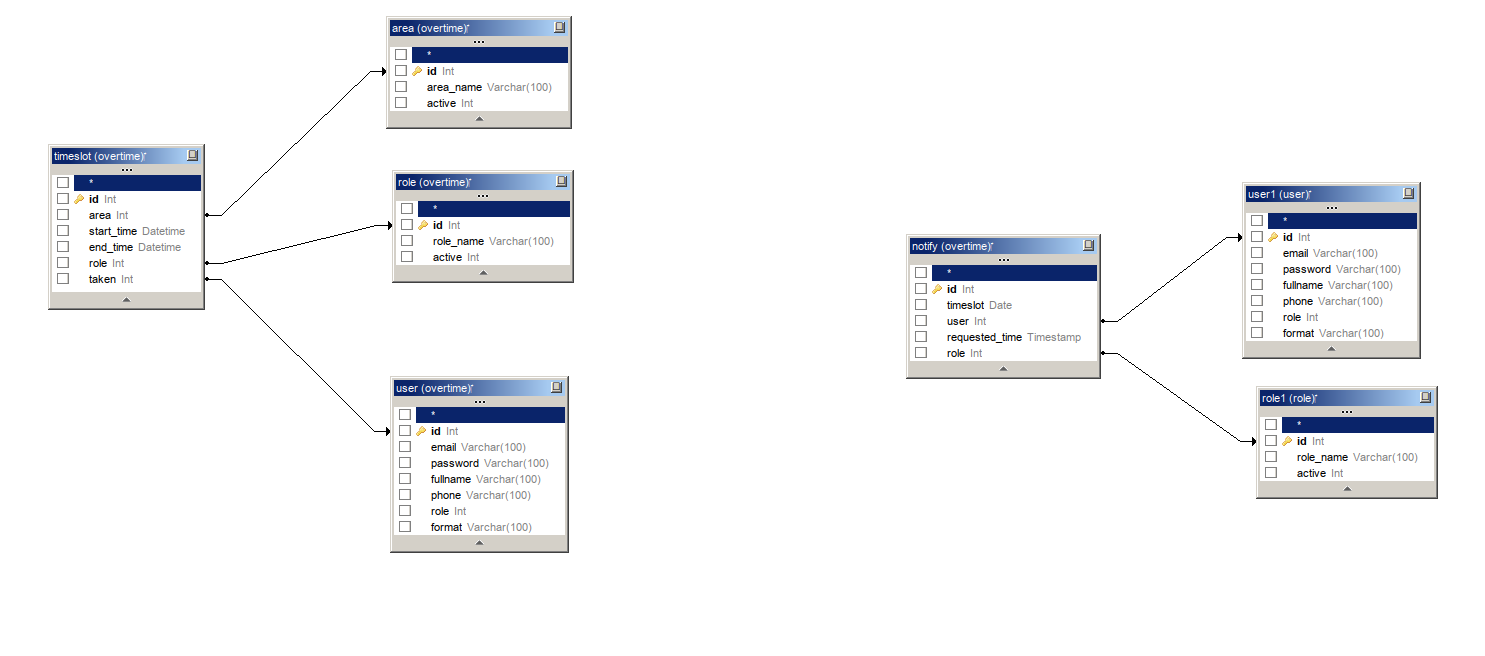
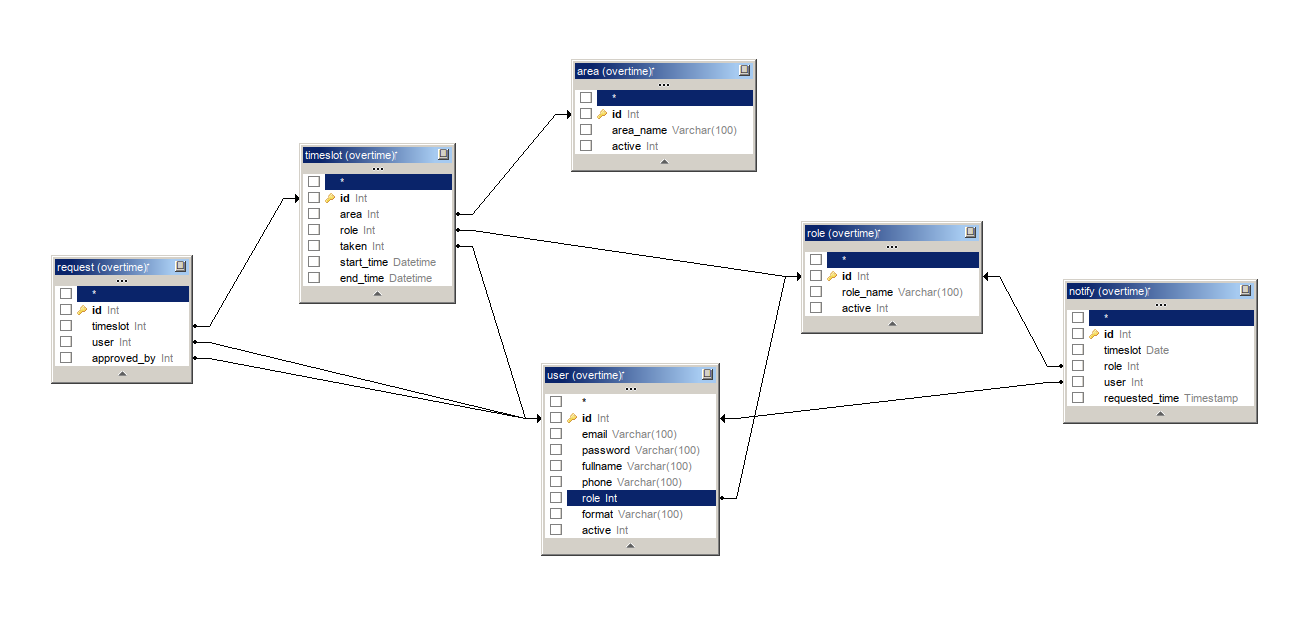
Update UML

diff --git a/index.html b/index.html
@@ -349,7 +349,7 @@
 		<script src="js/jquery-ui.js">// v1.13.2</script>
 		<script src="js/jquery-ui-timepicker-addon.min.js">// http://trentrichardson.com/examples/timepicker</script>
 
-		<script src="js/profile.js"></script>
+		<script src="js/profile.js">//Make sure this one is first</script>
 		<script src="js/roles.js"></script>
 		<script src="js/data.js"></script>
 		<script src="js/alert.js"></script>

diff --git a/README.md b/README.md
@@ -13,18 +13,18 @@ just change user.role to 0 in the database.
 
 
 ## SQL
-                             ╔═══════════════════╗   ╔═════════════════╗
-                             ║ timeslot          ║   ║ area            ║
-                             ╟───────────────────╢   ╟─────────────────╢
-                           ┌►╢id(PK)          int║ ┌►╢id(PK)        int║
-                           │ ║area(FK)        int╟─┘ ║area_name varchar║
-                           │ ║role(FK)        int╟─┐ ║active     int(1)║
-                           │ ║taken(FK)       int╟┐│ ╚═════════════════╝
-╔════════════════════════╗ │ ║start_time datetime║││ ╔═════════════════╗   ╔════════════════════════╗
-║ request                ║ │ ║end_time   datetime║││ ║ role            ║   ║ notify                 ║
-╟────────────────────────╢ │ ╚═══════════════════╝││ ╟─────────────────╢   ╟────────────────────────╢
-║id(PK)               int║ │                      │└►╢id(PK)        int╟◄┐ ║id(PK)               int║
-║timeslot(FK)         int╟─┘                      │  ║role_name varchar║ └─╢role(FK)             int║
+                                                     ╔═════════════════╗
+                                                     ║ area            ║
+                             ╔═══════════════════╗   ╟─────────────────╢
+                             ║ timeslot          ║ ┌►╢id(PK)        int║
+                             ╟───────────────────╢ │ ║area_name varchar║
+                           ┌►╢id(PK)          int║ │ ║active     int(1)║
+                           │ ║area(FK)        int╟─┘ ╚═════════════════╝
+╔════════════════════════╗ │ ║role(FK)        int╟─┐ ╔═════════════════╗   ╔════════════════════════╗
+║ request                ║ │ ║taken(FK)       int╟┐│ ║ role            ║   ║ notify                 ║
+╟────────────────────────╢ │ ║start_time datetime║││ ╟─────────────────╢   ╟────────────────────────╢
+║id(PK)               int║ │ ║end_time   datetime║│└►╢id(PK)        int╟◄┐ ║id(PK)               int║
+║timeslot(FK)         int╟─┘ ╚═══════════════════╝│  ║role_name varchar║ └─╢role(FK)             int║
 ║user(FK)             int╟────────────────────────┤  ║active     int(1)║ ┌─╢user(FK)             int║
 ║approved_by(FK)      int╟────────────────────────┤  ╚═════════════════╝ │ ║timeslot            date║
 ╚════════════════════════╝                        │  ╔═════════════════╗ │ ║requested_time timestamp║
